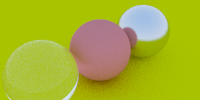
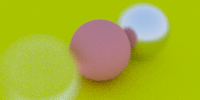
Chapter 11: Depth of Field
Added depth of field to camera

diff --git a/src/camera.rs b/src/camera.rs
@@ -1,11 +1,15 @@
+use hitable::utils;
 use ray::Ray;
 use vec3::{cross, unit_vector, Vec3};
 
 pub struct Camera {
+    pub lens_radius: f64,
     pub lower_left_corner: Vec3,
     pub horizontal: Vec3,
-    pub vertical: Vec3,
     pub origin: Vec3,
+    pub vertical: Vec3,
+    pub u: Vec3,
+    pub v: Vec3,
 }
 
 impl Camera {
@@ -22,6 +26,8 @@ impl Camera {
         view_up: Vec3,
         vert_fov: f64,
         aspect_ratio: f64,
+        aperture: f64,
+        focus_distance: f64,
     ) -> Self {
         let theta = vert_fov * std::f64::consts::PI / 180.0;
         let half_height = (theta / 2.0).tan();
@@ -30,18 +36,27 @@ impl Camera {
         let u = unit_vector(cross(&view_up, &w));
         let v = cross(&w, &u);
         Camera {
-            lower_left_corner: look_from - (half_width * u) - (half_height * v) - w,
-            horizontal: 2.0 * half_width * u,
-            vertical: 2.0 * half_height * v,
+            lens_radius: aperture / 2.0,
+            lower_left_corner: look_from
+                - (half_width * focus_distance * u)
+                - (half_height * focus_distance * v)
+                - (focus_distance * w),
+            horizontal: 2.0 * half_width * focus_distance * u,
+            vertical: 2.0 * half_height * focus_distance * v,
             origin: look_from,
+            u,
+            v,
         }
     }
 
-    pub fn create_ray(&self, u: f64, v: f64) -> Ray {
+    pub fn create_ray(&self, x: f64, y: f64) -> Ray {
+        let rand_point = self.lens_radius * utils::random_point_in_unit_disk();
+        let offset = (self.u * rand_point.x()) + (self.v * rand_point.y());
         Ray {
-            origin: self.origin,
-            direction: self.lower_left_corner + (u * self.horizontal) + (v * self.vertical)
-                - self.origin,
+            origin: self.origin + offset,
+            direction: self.lower_left_corner + (x * self.horizontal) + (y * self.vertical)
+                - self.origin
+                - offset,
         }
     }
 }

diff --git a/src/hitable/utils.rs b/src/hitable/utils.rs
@@ -21,6 +21,22 @@ pub fn random_point_in_unit_sphere() -> Vec3 {
     point
 }
 
+/// Generates a random point in a unit-radius disk
+pub fn random_point_in_unit_disk() -> Vec3 {
+    let range = Uniform::new_inclusive(0.0, 1.0);
+    let mut rng = rand::thread_rng();
+    let mut point;
+    loop {
+        point = 2.0 * Vec3::new(range.sample(&mut rng), range.sample(&mut rng), 0.0)
+            - Vec3::new(1.0, 1.0, 0.0);
+        if dot(&point, &point) < 1.0 {
+            break;
+        }
+    }
+
+    point
+}
+
 /// Calculates the direction of a ray after reflecting off of a mirrored surface.
 /// #### Arguments:
 /// - `dir`: The initial direction of the ray

diff --git a/src/main.rs b/src/main.rs
@@ -56,12 +56,16 @@ fn main() {
     let range = Uniform::new_inclusive(0.0, 1.0);
     let mut rng = rand::thread_rng();
     let mut imgBuff = image::ImageBuffer::new(numX, numY);
+    let look_from = Vec3::new(1.5, 1.8, -3.0);
+    let look_at = Vec3::new(0.0, 0.0, -1.0);
     let camera = Camera::new(
-        Vec3::new(1.5, 1.8, -3.0),
-        Vec3::new(0.0, 0.0, -1.0),
+        look_from,
+        look_at,
         Vec3::new(0.0, 1.0, 0.0),
         30.0,
         numX as f64 / numY as f64,
+        1.0,
+        (look_from - look_at).length(),
     );
     let world = HitableList {
         list: vec![
